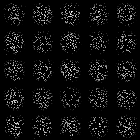
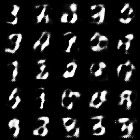
update gan with deconv

diff --git a/mp11/models/gan.py b/mp11/models/gan.py
@@ -66,11 +66,9 @@ class Gan(object):
               DO NOT USE AN ACTIVATION FUNCTION AT THE OUTPUT LAYER HERE.
         """
         with tf.variable_scope("discriminator", reuse=reuse) as scope:
-            d_full_1 = tf.nn.dropout(tf.layers.dense(x,            512, activation=tf.nn.leaky_relu, kernel_initializer=tf.random_normal_initializer(stddev=0.02)), 0.2)
-            d_full_2 = tf.nn.dropout(tf.layers.dense(d_full_1,     256, activation=tf.nn.leaky_relu, kernel_initializer=tf.random_normal_initializer(stddev=0.02)), 0.2)
-            d_batch_norm = tf.layers.batch_normalization(d_full_2)
-            d_full_3 = tf.layers.dense(d_batch_norm, 1, activation=None)
-            return d_full_3
+            d_full_1 = tf.nn.dropout(tf.layers.dense(x, 64, activation=tf.nn.leaky_relu, kernel_initializer=tf.random_normal_initializer(stddev=0.02)), 0.2)
+            d_full_2 = tf.layers.dense(d_full_1, 1, activation=None)
+            return d_full_2
 
     def _discriminator_loss(self, y, y_hat):
         """Loss for the discriminator.
@@ -100,10 +98,44 @@ class Gan(object):
             x_hat(tf.Tensor): Fake image G(z) (None, 784).
         """
         with tf.variable_scope("generator", reuse=reuse) as scope:
-            g_layer_1 = tf.nn.dropout(tf.layers.dense(z,         256, activation=tf.nn.leaky_relu, kernel_initializer=tf.random_normal_initializer(stddev=0.02)), 0.2)
-            g_layer_2 = tf.nn.dropout(tf.layers.dense(g_layer_1, 512, activation=tf.nn.leaky_relu, kernel_initializer=tf.random_normal_initializer(stddev=0.02)), 0.2)
-            g_layer_3 = tf.nn.dropout(tf.layers.dense(g_layer_2, 784, activation=tf.nn.leaky_relu, kernel_initializer=tf.random_normal_initializer(stddev=0.02)), 0.2)
-            return g_layer_3
+            g_full_1 = tf.layers.dense(z, 14*14*16, kernel_initializer=tf.random_normal_initializer(stddev=0.02))
+            g_full_1_norm = tf.layers.batch_normalization(g_full_1)
+            g_full_1_acti = tf.nn.leaky_relu(g_full_1_norm)
+
+
+            square = tf.reshape(g_full_1_acti, [-1, 14, 14, 16])
+            g_conv_1 = tf.layers.conv2d_transpose(
+                inputs=square,
+                filters=64,
+                strides=(2, 2),
+                kernel_size=[5, 5],
+                padding="same",
+            )
+            g_conv_1_norm = tf.layers.batch_normalization(g_conv_1)
+            g_conv_1_acti = tf.nn.leaky_relu(g_conv_1_norm)
+
+
+            g_conv_2 = tf.layers.conv2d_transpose(
+                inputs=g_conv_1_acti,
+                filters=64,
+                strides=(1, 1),
+                kernel_size=[5, 5],
+                padding="same",
+            )
+            g_conv_2_norm = tf.layers.batch_normalization(g_conv_2)
+            g_conv_2_acti = tf.nn.leaky_relu(g_conv_2_norm)
+
+
+            g_conv_3 = tf.layers.conv2d_transpose(
+                inputs=g_conv_2_acti,
+                filters=1,
+                strides=(1, 1),
+                kernel_size=[1, 1],
+                padding="same",
+            )
+            g_conv_3_acti = tf.nn.sigmoid(g_conv_3)
+            g_conv_3_flat = tf.layers.flatten(g_conv_3_acti)
+            return g_conv_3_flat
 
     def _generator_loss(self, y_hat):
         """Loss for the discriminator.

diff --git a/mp11/main_tf.py b/mp11/main_tf.py
@@ -7,8 +7,8 @@ import numpy as np
 import matplotlib.pyplot as plt
 from models.gan import Gan
 
-def train(model, mnist_dataset, learning_rate=0.0001, batch_size=32,
-          num_steps=800, nlatent=2, epoch=0):
+def train(model, mnist_dataset, learning_rate=0.0001, decay=0.9999, batch_size=64,
+          num_steps=500, nlatent=2, epoch=0):
     """Implements the training loop of stochastic gradient descent.
 
     Performs stochastic gradient descent with the indicated batch_size and
@@ -21,8 +21,11 @@ def train(model, mnist_dataset, learning_rate=0.0001, batch_size=32,
         batch_size(int): batch size used for training.
         num_steps(int): Number of steps to run the update ops.
     """
-    d_iters = 1
-    g_iters = 8
+
+    learning_rate = learning_rate * decay**epoch
+
+    d_iters = 3
+    g_iters = 1
     for step in range(num_steps):
         for _ in range(d_iters):
             batch_x, _ = mnist_dataset.train.next_batch(batch_size)
@@ -47,7 +50,6 @@ def train(model, mnist_dataset, learning_rate=0.0001, batch_size=32,
             )
 
         if step % 100 == 0:
-            summary = model.summary_op
             batch_x, _ = mnist_dataset.train.next_batch(batch_size)
             summary = model.session.run(
                 model.summary_op,
@@ -86,7 +88,7 @@ def main(_):
     """
     # Get dataset.
     mnist_dataset = input_data.read_data_sets('MNIST_data', one_hot=True)
-    nlatent = 2
+    nlatent = 14
 
     # Build model.
     model = Gan(nlatent=nlatent)
